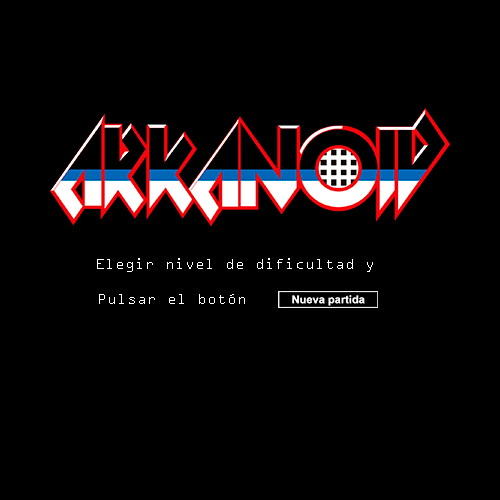
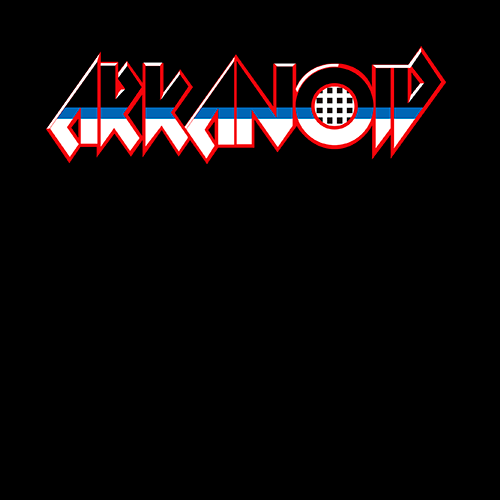
Add new Home wallpaper and i18n language file

diff --git a/index.html b/index.html
@@ -13,7 +13,10 @@
 	<title>Arkanoid tribute JS</title>
 	
     <!-- JS -->
-    <script src="js/game.js"></script>
+    <script src="js/util/tools.js" type="module"></script>
+    <script src="js/model/menu.js" type="module"></script>
+    <script src="js/game.js" type="module"></script>
+    
 
     <!--Styles-->
 	<link rel="stylesheet" type="text/css" href="css/style.css" title="style"/>
@@ -33,7 +36,7 @@
             <canvas id="myGameCanvas" width="500" height="500" class="initialGame"></canvas>
             
             <!-- Game Options -->
-            <div id="gameOptions">
+            <!--div id="gameOptions">
                 <input type="button" id="newGame" value="new  game">
                 <span id="easyContainer" class="levelsContainers">
                     <label for="easy" class="etiquetas">Facil</label> 
@@ -47,7 +50,7 @@
                     <label for="hard" class="etiquetas">Dificil</label> 
                     <input type="radio" name="difficulty" id="hard" value="3">
                 </span>
-            </div>
+            </div-->
 
             <!-- Right side Section -->
             <input type="button" id="showGameControls" value="show   controls">
